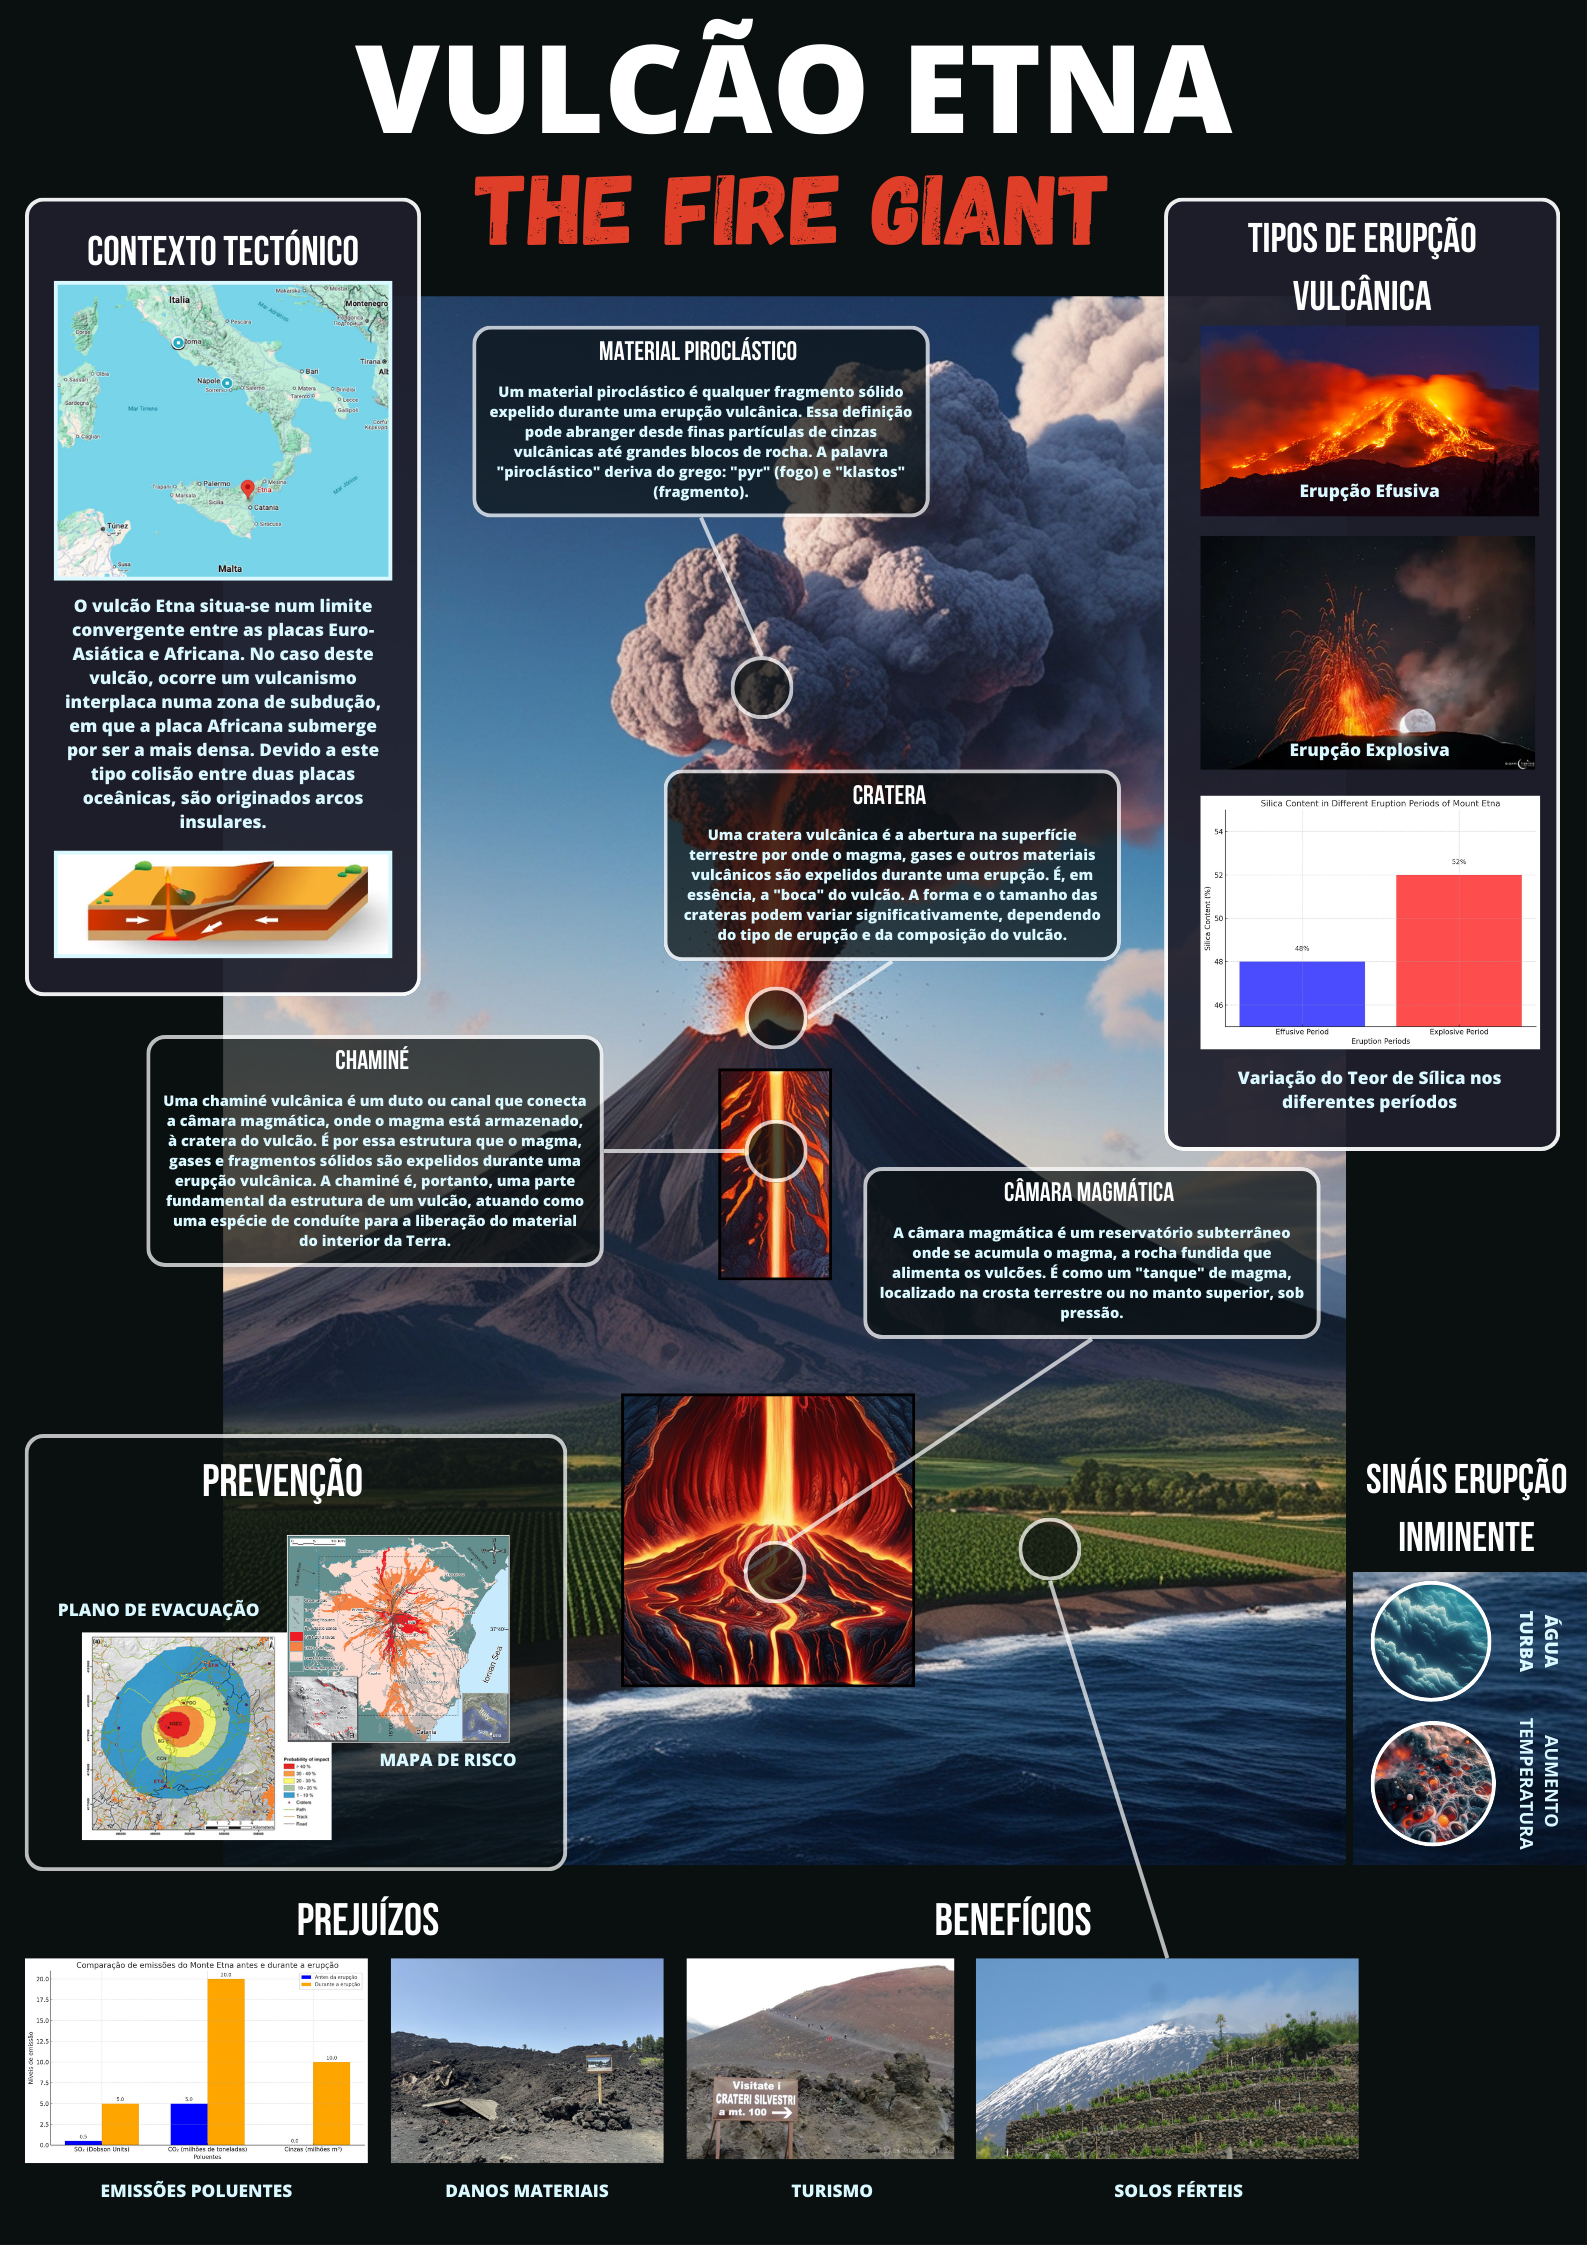
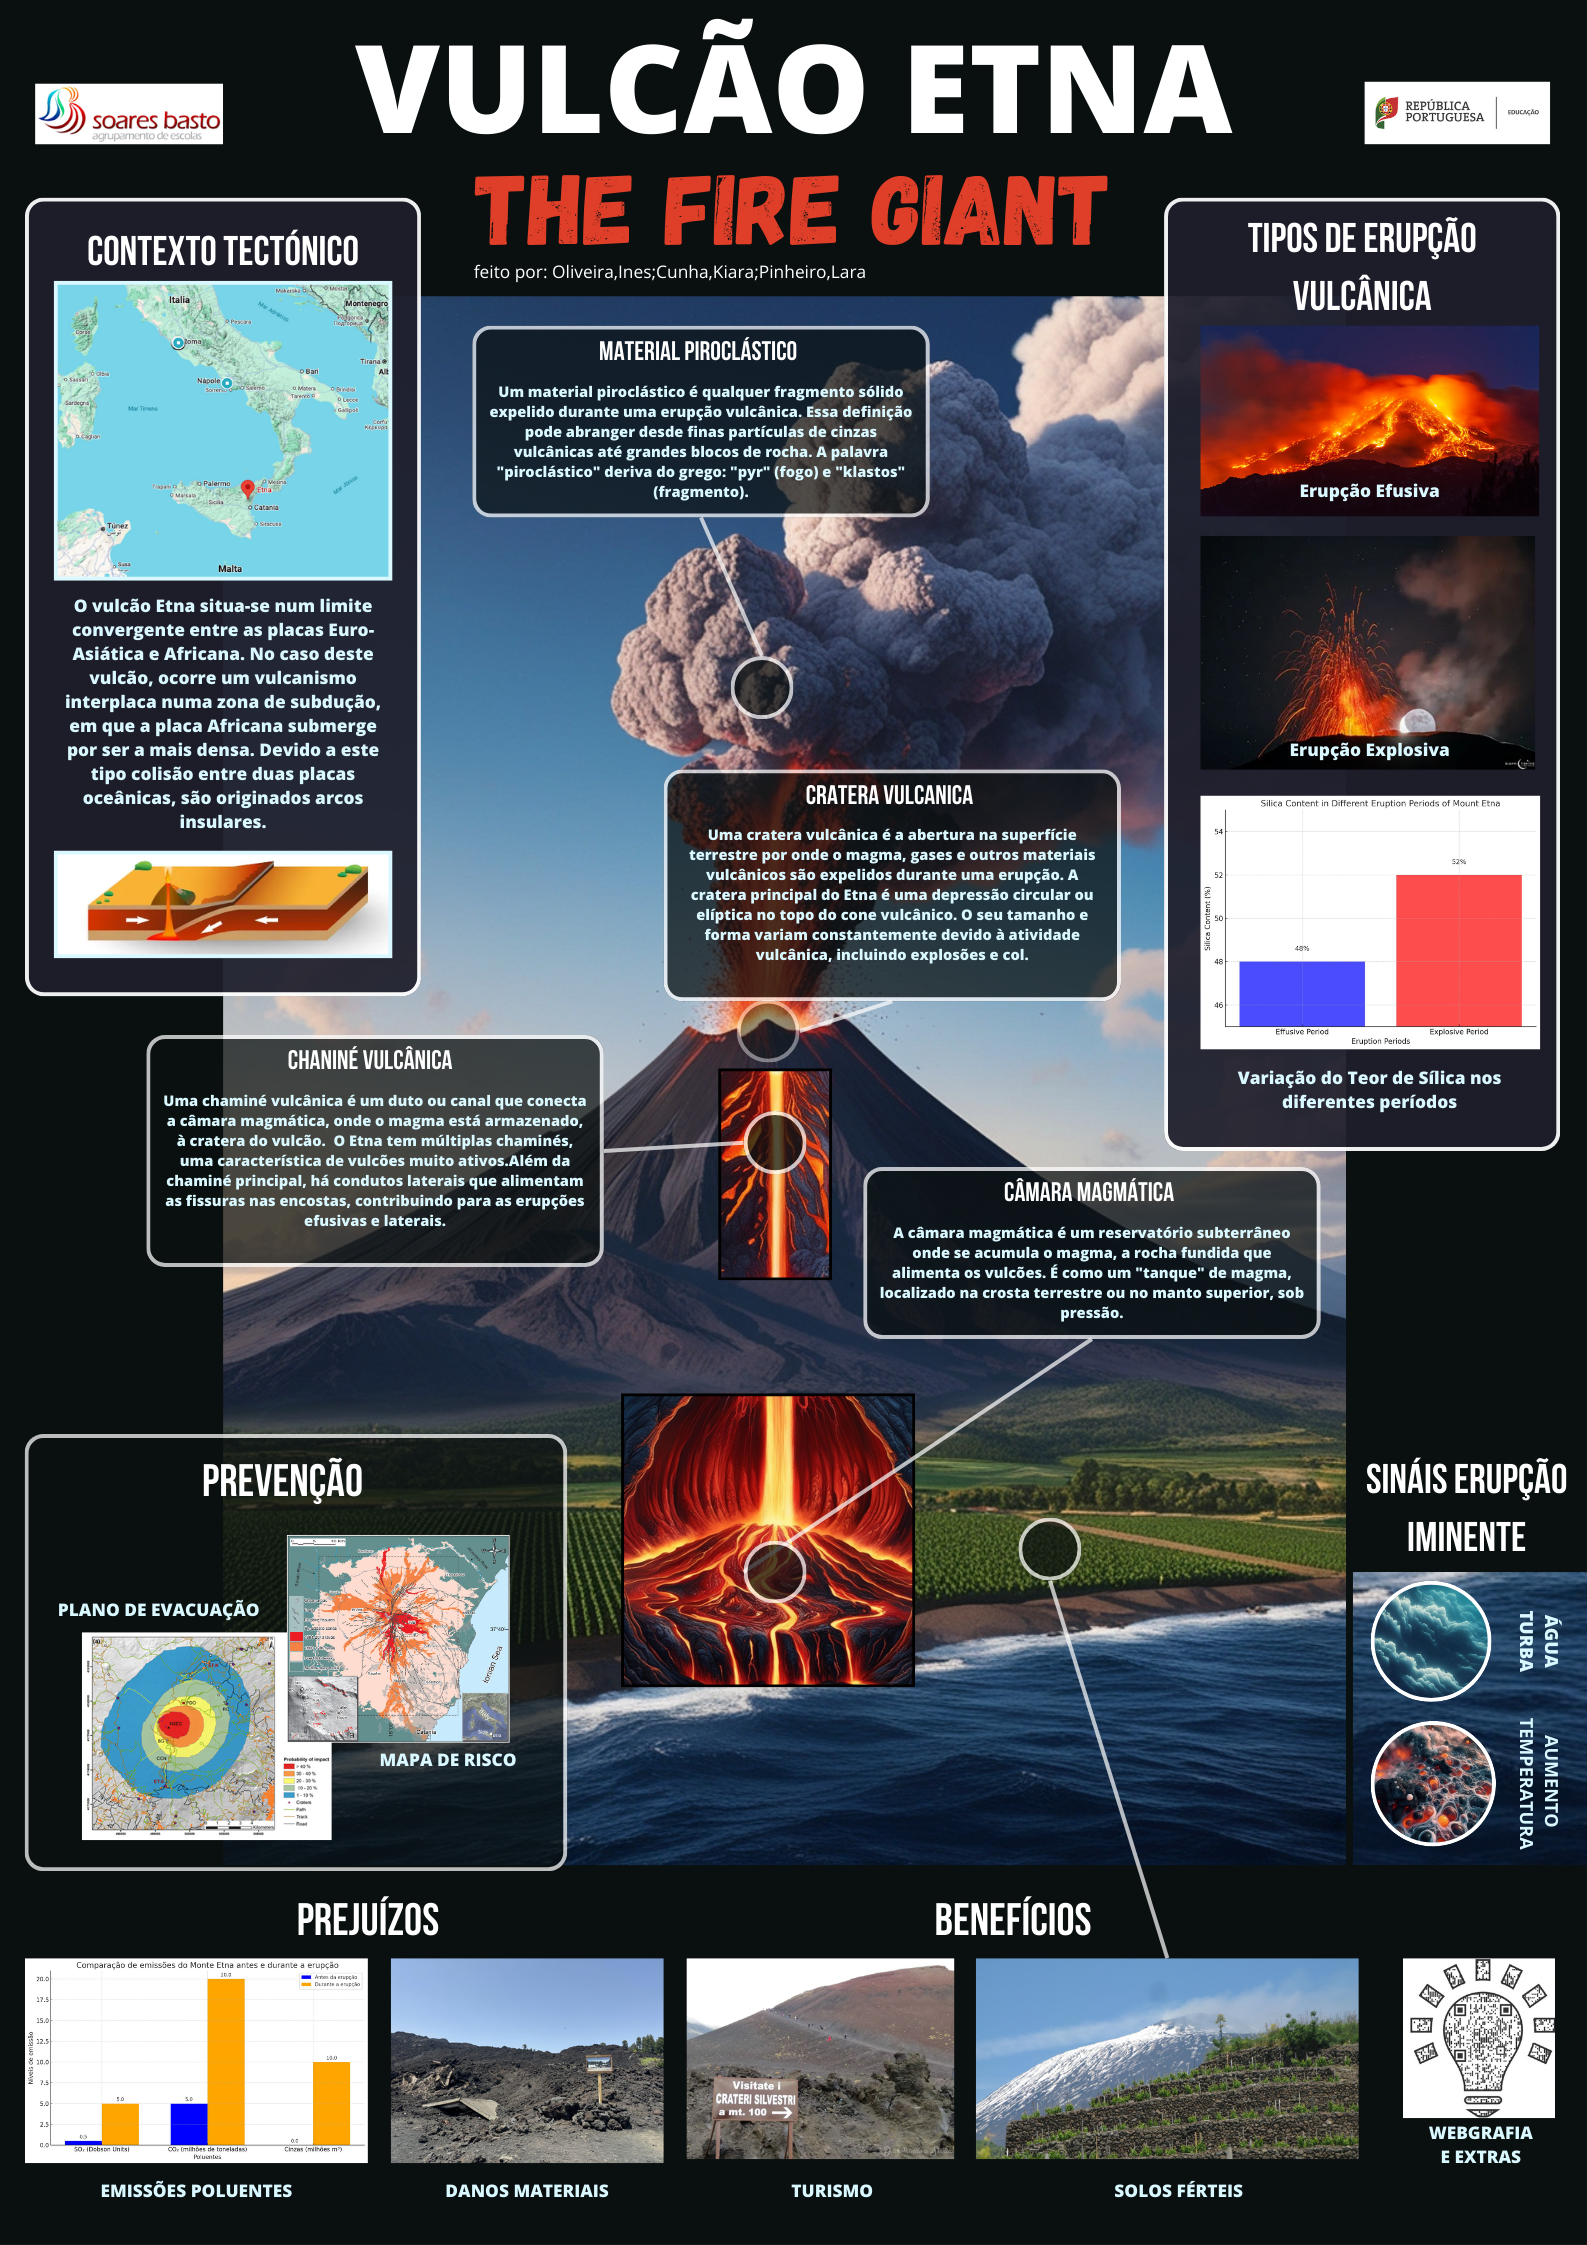
Adding multimedia material and updated poster image

diff --git a/index.html b/index.html
@@ -28,10 +28,22 @@
                         <header class="major">
 							<h2>VULCÃO ETNA - The Fire Giant</h2>
 						</header>
-                            <div class="col-12"><span class="image fit">
+                        <div class="col-12">
+                            <span class="image fit">
                                 <a href="images/etna_poster.png" class="image fit thumb"><img class="fit" src="images/etna_poster.png" alt="" /></a>
                             </span>
                         </div>
+
+                        <h3>Material Extra</h3>
+                        
+                        <h4>Youtube - Drones Sacrificed for Spectacular Volcano Video | National Geographic</h4>
+                        <iframe width="560" height="315" src="https://www.youtube.com/embed/zFIWWM0Iv-U?si=qqoRZ7uL_RoJMm09" title="YouTube video player" frameborder="0" allow="accelerometer; autoplay; clipboard-write; encrypted-media; gyroscope; picture-in-picture; web-share" referrerpolicy="strict-origin-when-cross-origin" allowfullscreen></iframe>
+                        
+                        <h4>Youtube - Lo spettacolo dell'eruzione dell'Etna</h4>
+                        <iframe width="560" height="315" src="https://www.youtube.com/embed/q7nBnezcpWA?si=YjZuB9ycwX6Kft1V" title="YouTube video player" frameborder="0" allow="accelerometer; autoplay; clipboard-write; encrypted-media; gyroscope; picture-in-picture; web-share" referrerpolicy="strict-origin-when-cross-origin" allowfullscreen></iframe>
+
+                        <h4>Youtube - WATCH: Mount Etna erupts in Sicily</h4>
+                        <iframe width="560" height="315" src="https://www.youtube.com/embed/0sZ-EJNRdz8?si=dYOyt8JdZwwxKRKV" title="YouTube video player" frameborder="0" allow="accelerometer; autoplay; clipboard-write; encrypted-media; gyroscope; picture-in-picture; web-share" referrerpolicy="strict-origin-when-cross-origin" allowfullscreen></iframe>
                     </section>
 
 				<!-- One -->
